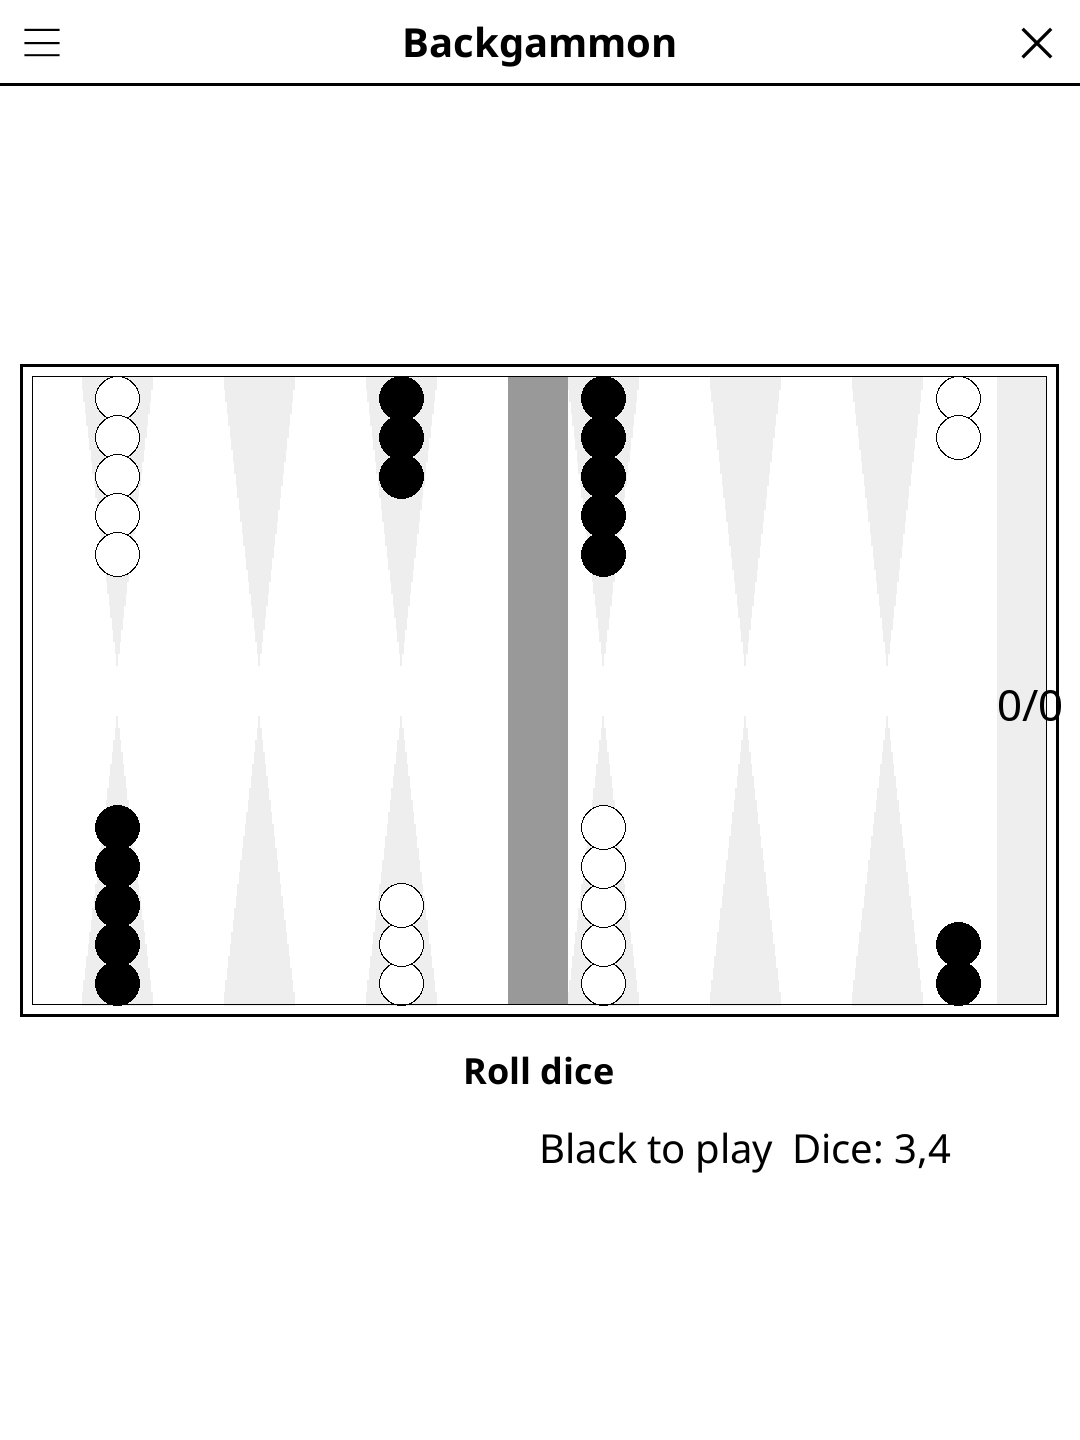
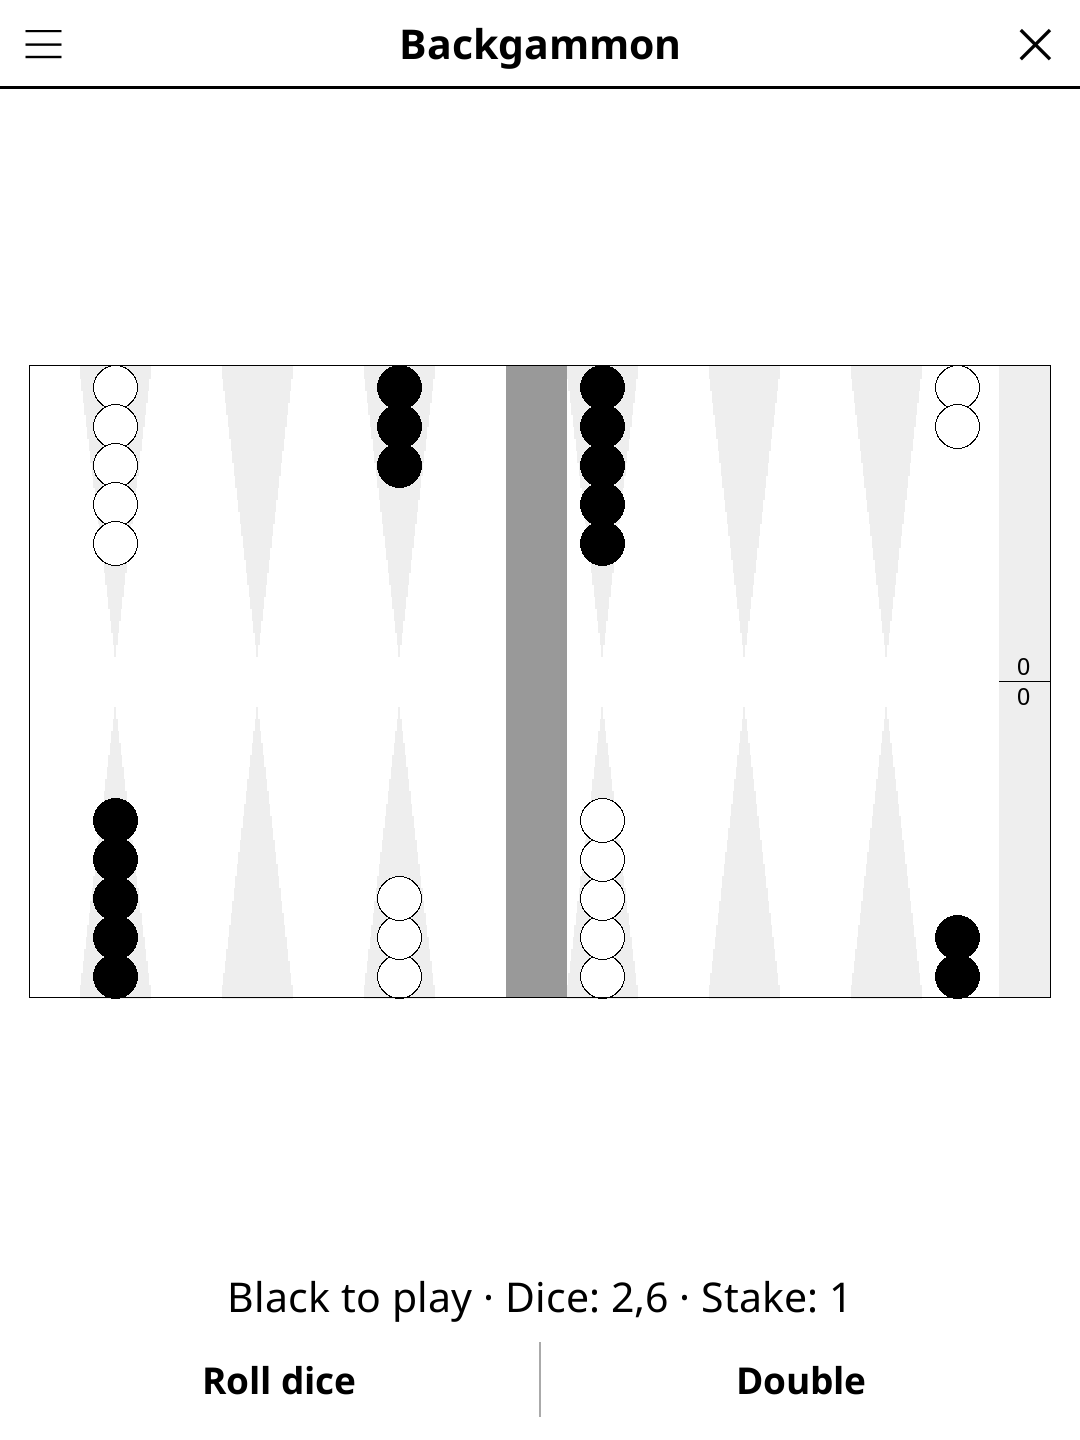
release: 1.3.0 -- redesigned screen, harmonised menu, New game at round end
Screen redesign (full-width action bar, unified pad, status line, larger
board), harmonised title-bar menu, and a "New game" button once the round
is over. See CHANGELOG.md.

diff --git a/CHANGELOG.md b/CHANGELOG.md
@@ -2,6 +2,28 @@
 
 All notable changes to this project will be documented in this file.
 
+## [1.3.0] - 2026-10-30
+
+### Changed
+- Redesigned play screen. The board takes all the room the controls leave; in
+  landscape the status and the Roll dice / Double bar go beside it, or under
+  it whenever that gives the wide board more room. One edge around the board
+  instead of two.
+- The status line reads "White to play · Dice: 3,5 · Stake: 1" and wraps in
+  landscape instead of being cut off.
+- Once a game is over (all checkers borne off, or a double declined), the
+  action bar shows "New game" in place of Roll dice / Double.
+- The off-tray is split in two halves, black on top and white below, each
+  stacking one thin bar per borne-off checker with its count, instead of a
+  single "0/0" label.
+- When more than one checker of a colour waits on the bar, the count is drawn
+  on it.
+
+### Fixed
+- The count on a stack of more than five checkers was drawn on the bare point
+  beyond the stack, white on white for a black stack, so it was invisible; it
+  now sits on the outermost checker in its contrasting colour, fitted to it.
+
 ## [1.2.2] - 2026-10-02
 
 ### Fixed
